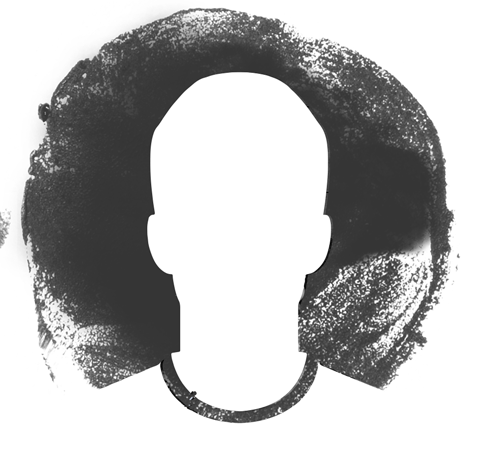
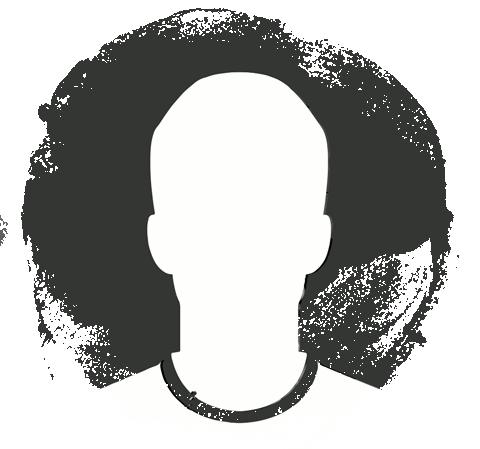
Optimización de imagenes

diff --git a/database/seeds/SpeakerSeeder.php b/database/seeds/SpeakerSeeder.php
@@ -27,6 +27,13 @@ class SpeakerSeeder extends Seeder
         ]);
 
         DB::table('speakers')->insert([
+            'nombre'=>"Marco Antonio Quelca",
+            'charla'=>"",
+            'descripcion'=>"Cocinero de profesión, en su etapa de estudiante representó a Bolivia en los concursos de cocina creativa en Lima - Perú, México DF y Montevideo - Uruguay. Ha sido jefe de cocina en Hoteles cinco estrellas de la ciudad de Santa Cruz-Bolivia. Tiene una maestría en cocina contemporánea en el Centro internacional de Estudios Turísticos de Canarias, España y  desde el 2012 hasta la actualidad ha estado viviendo de manera itinerante en Bolivia y España, en este último país estando en restaurantes con estrellas Michelín. Es creador del movimiento Sabor Clandestino, que es compuesto por los proyectos Cascándole y Somos Calle, que buscan reflejar  una gastronomía contemporánea con las raíces e ingredientes tradicionales de la comida popular boliviana, ésto con el objetivo de transmitir nuestras tradiciones y culturas con una visión actual.",
+            'imagen'=>'images/speakers/MarcoQuelca.png'
+        ]);
+
+        DB::table('speakers')->insert([
             'nombre'=>"Leonardo Viscarra",
             'charla'=>"",
             'descripcion'=>"Joven de 14 años investigador y genio boliviano. Experto en robótica. A pesar de haber nacido sin una mano, eso no le ha impedido ser destacado en todos los ambitos de su vida. A corta edad descubrió su pasion por la tecnología. Creador de su propia protesis de mano que es capaz de captar los impulsos de su muñeca para transmitirlos a los dedos, además esta actualmente está elaborando protesis parecidas para otros niños de bajos recursos que por diferentes circunstancias perdieron una de sus extremidades. Fue participante de los Clubes de Ciencia Bolivia como uno de los expositores para compartir con más jovenes su pasión por la robótica.",
@@ -34,27 +41,20 @@ class SpeakerSeeder extends Seeder
         ]);
 
         DB::table('speakers')->insert([
-            'nombre'=>"Marco Antonio Quelca",
+            'nombre'=>"Jazmin Quiroz Calizaya",
             'charla'=>"",
-            'descripcion'=>"Cocinero de profesión, en su etapa de estudiante representó a Bolivia en los concursos de cocina creativa en Lima - Perú, México DF y Montevideo - Uruguay. Ha sido jefe de cocina en Hoteles cinco estrellas de la ciudad de Santa Cruz-Bolivia. Tiene una maestría en cocina contemporánea en el Centro internacional de Estudios Turísticos de Canarias, España y  desde el 2012 hasta la actualidad ha estado viviendo de manera itinerante en Bolivia y España, en este último país estando en restaurantes con estrellas Michelín. Es creador del movimiento Sabor Clandestino, que es compuesto por los proyectos Cascándole y Somos Calle, que buscan reflejar  una gastronomía contemporánea con las raíces e ingredientes tradicionales de la comida popular boliviana, ésto con el objetivo de transmitir nuestras tradiciones y culturas con una visión actual.",
-            'imagen'=>'images/speakers/MarcoQuelca.png'
+            'descripcion'=>"Nació en la ciudad de La Paz y reside en Cochabamba desde sus 3 años. Desde el 2011 descubrió el fascinante mundo de los murciélagos despues de asistir al Congreso de Mastozoologia e inmediatamente decidió trabajar con estos animales, se unió al Programa para la Conservación de los Murciélagos de Bolivia (PCMB). Trabaja como auxiliar del Centro de Biodiversidad y Genética (CBG) en la UMSS. Obtuvo el título de alumnos de IBRO (International Brain Research Organization) en la Escuela Andina de Neuroetologia. Es becaria de Bat Conservation International (BCI) gracias a su proyecto de conservación de las especies de murciélagos en Capinota - Cochabamba y fue premiada con el Women in Conservation Science Award.",
+            'imagen'=>'images/speakers/JazminQuiroz.png'
         ]);
 
-        // DB::table('speakers')->insert([
-        //     'nombre'=>"Jazmin Quiroz",
-        //     'charla'=>"",
-        //     'descripcion'=>"",
-        //     'imagen'=>'images/speakers/JazminQuiroz.png'
-        // ]);
+        DB::table('speakers')->insert([
+            'nombre'=>"Álex Ayala Ugarte",
+            'charla'=>"",
+            'descripcion'=>"Español de nacimiento, boliviano de corazón y tartamudo de vocación. Fue director del dominical del diario La Razón de Bolivia, editor de periodismo narrativo del semanario Pulso y fundador de Pie Izquierdo, primera revista boliviana de no ficción. Colabora con medios como Etiqueta Negra, Paula, Virginia Quaterly Review, Internazionale, El País, Gatopardo, The New York Times, Univisón y otros. Ha participado en talleres de crónica con periodistas como Alberto Salcedo, Francisco, Goldman, Julio Villanueva Chang, Jon Lee Anderson y Alma Guillermoprieto. Fue Premio Nacional de Periodismo de Bolivia en 2008. Formó parte de las antologías de crónica Bolivia a toda costa, Hora boliviana, Un ilegal en el paraíso y The Football Crónicas. Tiene tres libros publicados: Los mercaderes del Che, La vida de las cosas y Rigor mortis. La Fundación para el Nuevo Periodismo Iberoamericano lo ha incluido en el movimiento Nuevos Cronistas de Indias, que reúne a algunas de las voces más talentosas del periodismo latinoamericano.",
+            'imagen'=>'images/speakers/AlexAyala.png'
+        ]);
 
-        // DB::table('speakers')->insert([
-        //     'nombre'=>"Alex Ayala",
-        //     'charla'=>"",
-        //     'descripcion'=>"Español de nacimiento, boliviano de corazón y tartamudo de vocación. Fue director del dominical del diario La Razón de Bolivia, editor de periodismo narrativo del semanario Pulso y fundador de Pie Izquierdo, primera revista boliviana de no ficción. Colabora con medios como Etiqueta Negra, Paula, Virginia Quaterly Review, Internazionale, El País, Gatopardo, The New York Times, Univisón y otros. Ha participado en talleres de crónica con periodistas como Alberto Salcedo, Francisco, Goldman, Julio Villanueva Chang, Jon Lee Anderson y Alma Guillermoprieto. Fue Premio Nacional de Periodismo de Bolivia en 2008. Formó parte de las antologías de crónica Bolivia a toda costa, Hora boliviana, Un ilegal en el paraíso y The Football Crónicas. Tiene tres libros publicados: Los mercaderes del Che, La vida de las cosas y Rigor mortis. La Fundación para el Nuevo Periodismo Iberoamericano lo ha incluido en el movimiento Nuevos Cronistas de Indias, que reúne a algunas de las voces más talentosas del periodismo latinoamericano.",
-        //     'imagen'=>'images/speakers/AlexAyala.png'
-        // ]);
-
-        for ($i=0; $i < 8; $i++) {
+        for ($i=0; $i < 6; $i++) {
             if($i % 2 === 0){
                 $im = "images/speakers/man.png";
             }
